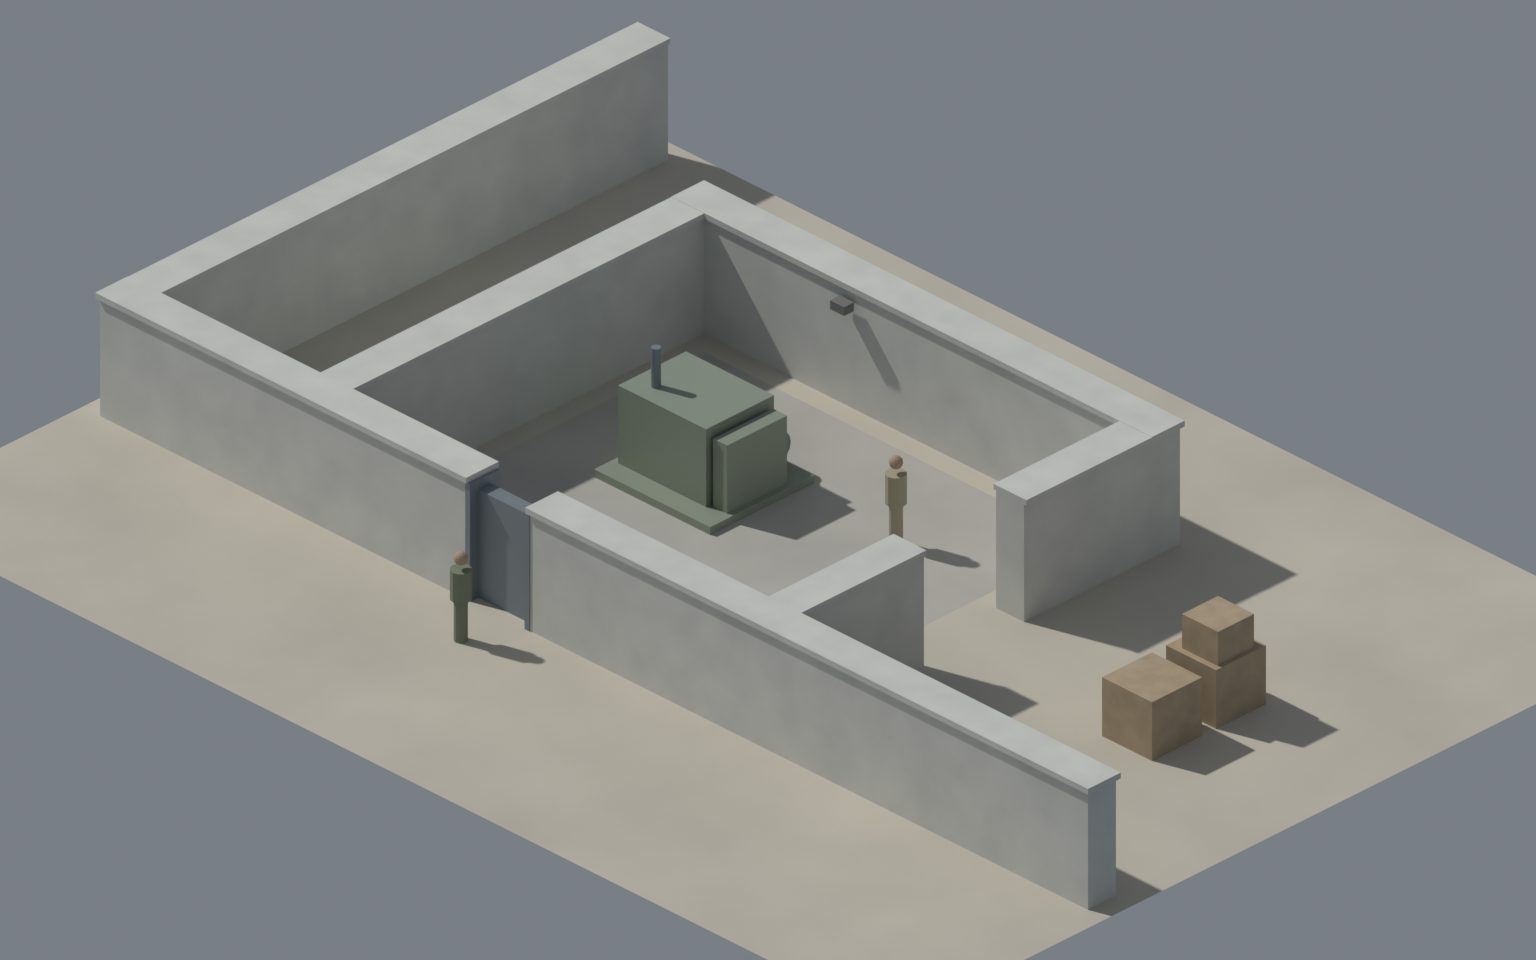
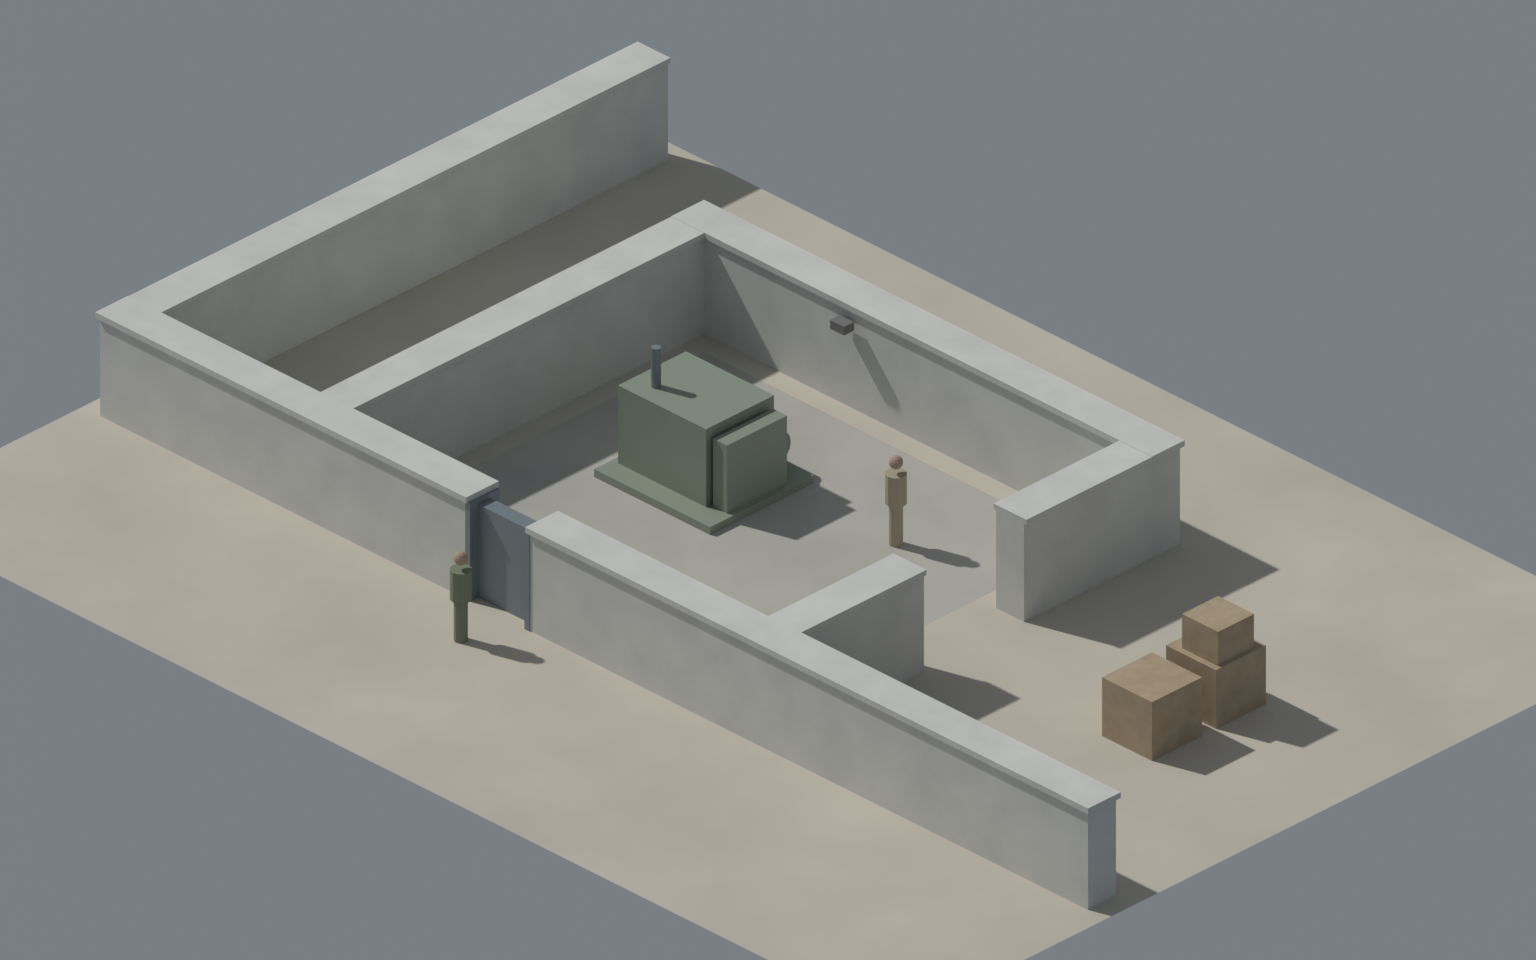
Session 2: look B, 2 m walls, full-frame plate, prompt batch 01
Renderer: wall height and figure options, builds past the frame edge, adds
buildings, launcher trucks and searchlight towers. 16:9 plate for Nano Banana.

diff --git a/tools/blender/render_iso.py b/tools/blender/render_iso.py
@@ -35,9 +35,10 @@ from mathutils import Vector
 TILE_M = 1.6  # one sim tile in metres. A 1.8 m figure is then about 44 px tall at 100% zoom.
 TILE_PX_W = 64  # tile diamond width on screen at 100% zoom
 CAM_TILT = math.radians(60)  # from vertical
-WALL_H = 2.4
+WALL_H = 2.0  # Gate A decision, Session 2: shows more floor behind walls than 2.4 m
 WALL_T = 0.7  # wall thickness; walls run through tile centres
-DOOR_H = 2.2
+DOOR_H = 1.9
+BUILDING_H = 3.2
 FIGURE_H = 1.8
 
 # Sun: from the screen's top left. Ground direction toward the sun, in Blender axes
@@ -205,8 +206,9 @@ class MapData:
         return self.deco[y * self.cols + x]
 
 
-def build(md, region, look):
-    x0, y0, x1, y1 = region
+def build(md, region, look, figures=True, margin=8):
+    # build past the camera's region so ground and walls run off the frame edges
+    x0, y0, x1, y1 = region[0] - margin, region[1] - margin, region[2] + margin, region[3] + margin
     L = LOOKS[look]
     T = TILE_M
     mats = {
@@ -341,6 +343,46 @@ def build(md, region, look):
                 add_box(crates, c.x + 0.1, c.y - 0.05, 1.55, 0.9, 0.9, 0.7)
     mesh_object("crates", crates, mats["wood"])
 
+    # buildings: one block per footprint with a parapet roof
+    bld = bmesh.new()
+    roof = bmesh.new()
+    for b in md.d["buildings"]:
+        if b["x1"] < x0 or b["x0"] >= x1 or b["y1"] < y0 or b["y0"] >= y1:
+            continue
+        a = sim_to_world(b["x0"] + 0.1, b["y0"] + 0.1)
+        c = sim_to_world(b["x1"] + 0.9, b["y1"] + 0.9)
+        cx, cy = (a.x + c.x) / 2, (a.y + c.y) / 2
+        sx, sy = abs(c.x - a.x), abs(c.y - a.y)
+        add_box(bld, cx, cy, BUILDING_H / 2, sx, sy, BUILDING_H)
+        add_box(roof, cx, cy, BUILDING_H + 0.01, sx - 0.5, sy - 0.5, 0.04)
+    mesh_object("buildings", bld, mats["concrete"])
+    mesh_object("roofs", roof, mats["steel"])
+
+    # launcher trucks: chassis, cab, missile on a cradle
+    trucks = bmesh.new()
+    missiles = bmesh.new()
+    for l in md.d["launchers"]:
+        if not (x0 <= l["x"] < x1 and y0 <= l["y"] < y1):
+            continue
+        a = sim_to_world(l["x"], l["y"] + 0.5)
+        length = l["w"] * T
+        cy = a.y
+        add_box(trucks, a.x + length / 2, cy, 0.75, length - 0.2, 1.3, 0.7)
+        add_box(trucks, a.x + length - 0.6, cy, 1.4, 0.9, 1.3, 0.8)
+        add_cylinder(missiles, a.x + length / 2 - 0.4, cy, 1.55, 0.28, length - 1.2, axis="X")
+    mesh_object("trucks", trucks, mats["machine"])
+    mesh_object("missiles", missiles, mats["concrete"])
+
+    # searchlight towers: pole and lamp head
+    towers = bmesh.new()
+    for t in md.d["towers"]:
+        if not (x0 <= t["x"] < x1 and y0 <= t["y"] < y1):
+            continue
+        c = sim_to_world(t["x"] + 0.5, t["y"] + 0.5)
+        add_box(towers, c.x, c.y, 2.5, 0.25, 0.25, 5.0)
+        add_box(towers, c.x, c.y, 5.1, 0.6, 0.6, 0.4)
+    mesh_object("towers", towers, mats["steel"])
+
     # a wall lamp inside the yard's north wall, above the generator (the night light source)
     lamp_pos = sim_to_world(16.0, 21.5 + WALL_T / (2 * T) + 0.05, WALL_H - 0.25)
     lamp = bmesh.new()
@@ -348,7 +390,7 @@ def build(md, region, look):
     mesh_object("lamp_fixture", lamp, mats["lamp"])
 
     # scale figures: Yoav outside the gate, the yard guard on his post
-    for name, (sx, sy), body in (("yoav", (16.6, 28.4), mats["fatigue"]), ("guard", (18.5, 23.5), mats["khaki"])):
+    for name, (sx, sy), body in () if not figures else (("yoav", (16.6, 28.4), mats["fatigue"]), ("guard", (18.5, 23.5), mats["khaki"])):
         if not (x0 <= sx < x1 and y0 <= sy < y1):
             continue
         p = sim_to_world(sx, sy)
@@ -453,6 +495,7 @@ def setup_render(look, samples):
 
 
 def main():
+    global WALL_H
     argv = sys.argv[sys.argv.index("--") + 1:] if "--" in sys.argv else []
     ap = argparse.ArgumentParser()
     ap.add_argument("--map", required=True)
@@ -463,19 +506,24 @@ def main():
     ap.add_argument("--top", type=int, default=96, help="px of headroom above the region for tall objects")
     ap.add_argument("--supersample", type=int, default=2)
     ap.add_argument("--samples", type=int, default=96)
+    ap.add_argument("--wall-h", type=float, default=WALL_H, help="wall height in metres")
+    ap.add_argument("--no-figures", action="store_true", help="leave out the scale figures (clean plate for painting)")
+    ap.add_argument("--margin", type=int, default=8, help="tiles built beyond the region so the frame is full")
+    ap.add_argument("--suffix", default="", help="added to the output file names")
     a = ap.parse_args(argv)
 
     reset_scene()
     md = MapData(a.map)
     region = tuple(a.region)
     L = LOOKS[a.look]
-    info = build(md, region, a.look)
+    WALL_H = a.wall_h
+    info = build(md, region, a.look, figures=not a.no_figures, margin=a.margin)
     setup_light(L)
     cam = setup_camera(region, a.top, a.supersample)
     setup_render(a.look, a.samples)
 
     os.makedirs(a.out, exist_ok=True)
-    stem = f"{a.name}_{a.look}"
+    stem = f"{a.name}_{a.look}{a.suffix}"
     scene = bpy.context.scene
     scene.render.filepath = os.path.abspath(os.path.join(a.out, f"{stem}_day.png"))
     bpy.ops.render.render(write_still=True)

diff --git a/assets/raw/prompts/batch-01.md b/assets/raw/prompts/batch-01.md
@@ -1,0 +1,90 @@
+# Prompt batch 01: style frame and Yoav concept
+
+Session 2, for Gate A. Look B (Moonlit steel), walls 2.0 m.
+Run each prompt in Nano Banana. Save each result in `assets/raw/gen/` under the file name given.
+If a result is weak, run the same prompt again and add `_2`, `_3` to the name. Send me all of them, good and bad.
+
+General settings:
+- Use the highest output resolution Nano Banana offers.
+- Aspect ratio 16:9 for SF prompts (same as the attached image). 3:2 for CH prompts.
+- One prompt per new chat, so earlier images do not leak in.
+
+---
+
+## SF-01 · Generator yard, painted (main style frame)
+
+Attach: `assets/raw/blockout/yard_B_plate_16x9.png`
+Save as: `assets/raw/gen/SF-01_yard_paint.png`
+
+```
+Repaint this 3D blockout render as a finished, hand-painted environment for an isometric stealth-tactics PC game from the late 1990s, painted at high detail.
+
+Keep the composition exactly the same: the camera angle, every wall, the steel gate, the generator, the crates, the building on the right, their positions, sizes and outlines. Do not move, add or remove any structure. Keep the light direction: sun from the upper left, shadows falling to the right.
+
+Surfaces:
+- Ground outside the walls: pale grey-khaki desert sand and gravel, small stones, tyre tracks, dry scrub patches, subtle wind ripples.
+- Ground inside the walled yard: compacted dirt over cracked concrete, oil stains under the generator.
+- Walls: weathered cast concrete in cool grey, formwork lines, chipped edges, dust and rain streaks, darker at the base.
+- Generator: olive-green industrial diesel generator with a radiator grille, exhaust pipe, fuel tank, control box, warning stickers without readable text.
+- Gate: grey painted steel double gate with rust at the edges.
+- Crates: worn wooden ammunition crates with rope handles, no markings.
+- Building: flat-roofed concrete block building, roof with a few vents and a small water tank.
+
+Palette: muted neutral grey-khaki and cool concrete, low saturation, neutral daylight, soft sky fill. No warm sunset light, no night, no fog.
+
+Style: detailed digital painting with visible but controlled brushwork, crisp readable shapes at small scale, clean edges between objects, like a painted backdrop for a classic isometric tactics game. No people, no vehicles, no text, no logos, no flags, no UI.
+```
+
+## SF-02 · Same, more painterly (variant for comparison)
+
+Attach: `assets/raw/blockout/yard_B_plate_16x9.png`
+Save as: `assets/raw/gen/SF-02_yard_paint_loose.png`
+
+```
+Turn this 3D blockout render into a painted environment for an isometric tactics game, in the style of a gouache matte painting: looser brushwork, painted texture on every surface, hand-made feel, but still crisp at the edges of walls and objects.
+
+Keep the composition exactly the same: the camera angle, every wall, the steel gate, the generator, the crates and the building, their positions, sizes and outlines. Do not move, add or remove anything. Sun from the upper left, shadows to the right.
+
+Surfaces: grey-khaki desert gravel outside, compacted dirt and cracked concrete inside the walled yard, weathered grey concrete walls with stains, an olive-green diesel generator, a grey steel gate, worn wooden crates, a flat-roofed concrete building.
+
+Palette: muted, cool, neutral daylight, low saturation. No people, no text, no logos, no flags, no UI, no night, no fog.
+```
+
+---
+
+## CH-01 · Yoav, character turnaround
+
+Attach: nothing.
+Save as: `assets/raw/gen/CH-01_yoav_turnaround.png`
+
+```
+Character turnaround sheet for an original video game character: front view, side view (facing left) and back view, standing side by side in a neutral relaxed A-pose, full body, same height and scale in all three views, orthographic, on a plain flat mid-grey background with no shadows on the ground. Neutral even studio daylight.
+
+The character: Yoav, call sign "Shadow", a lean special forces infiltrator in his early thirties, 180 cm, wiry build. Night desert raid gear, light and quiet: a dark knit watch cap, a short dark beard, camouflage face paint in dark olive, a slim low-profile plate carrier with a few pouches, a combat knife in a sheath on the left chest, a compact pistol in a thigh holster, fingerless gloves, a small assault pack, desert combat trousers with knee pads, worn tan boots.
+
+Colours: muted olive, khaki and dark brown, no bright colours, no national flags, no unit patches, no insignia, no readable text, no logos.
+
+Style: clean concept art, clear silhouette, readable shapes that would still read at 45 pixels tall, consistent proportions across the three views, semi-realistic, not cartoon, not anime.
+```
+
+## CH-02 · Yoav, silhouette variant
+
+Attach: nothing.
+Save as: `assets/raw/gen/CH-02_yoav_turnaround_hood.png`
+
+```
+Character turnaround sheet for an original video game character: front view, side view (facing left) and back view, side by side, full body, same height and scale in all three views, orthographic, neutral relaxed A-pose, plain flat mid-grey background, even neutral daylight.
+
+The character: Yoav, call sign "Shadow", a lean special forces infiltrator, 180 cm, wiry build. Distinct silhouette: a dark scarf worn as a hood and face wrap that leaves the eyes visible, a slim chest rig instead of body armour, a combat knife in a sheath across the lower back, a compact pistol in a thigh holster, a coiled rope with a small grappling hook on the pack, desert combat trousers, light tan boots.
+
+Colours: muted olive, dusty khaki, charcoal. No bright colours, no national flags, no unit patches, no insignia, no readable text, no logos.
+
+Style: clean concept art, strong readable silhouette that works at 45 pixels tall, consistent proportions in all three views, semi-realistic, not cartoon, not anime.
+```
+
+---
+
+## What I do with the results
+
+- SF: I check that the painted image still matches the blockout (walls, gate and generator in the same place, to within a few pixels), then grade it to night in the engine style and put it into the game at the right spot on the iso grid. You then paint over the strongest one for the final style frame.
+- CH: you pick one silhouette. It becomes the reference for the 3D model, and I render a 45 px version through the game camera to check that it still reads at game scale.

diff --git a/docs/visual-language.md b/docs/visual-language.md
@@ -1,6 +1,6 @@
 # Visual language (draft for Gate A)
 
-Status: draft, Session 2. The palette waits for Ran's pick of look A, B or C.
+Status: draft, Session 2. Look B (Moonlit steel) chosen by Ran. Walls 2.0 m.
 Compare sheet: `assets/raw/blockout/yard_looks_compare.png`.
 
 Each element has one job. No two elements do the same job.
@@ -12,8 +12,8 @@ Each element has one job. No two elements do the same job.
 ## 2. Scale (fixed)
 - One sim tile = 1.6 m.
 - A 1.8 m figure is about 44 px tall at 100% zoom (target 40 to 48).
-- Walls 2.4 m (about 59 px). Doors 2.2 m. Crates 1.2 m.
-- To check: does a 2.4 m wall hide too much floor behind it? See "Open questions".
+- Walls 2.0 m (about 49 px), just taller than a standing figure, so they read as cover. Doors 1.9 m. Crates 1.2 m. Buildings 3.2 m.
+- Decided in Session 2: 2.4 m hid too much floor and made cones seem to cross walls.
 
 ## 3. Light (fixed, one direction for everything)
 - Sun from the screen's top left: ground direction west with a little south, 48 degrees up.
@@ -27,7 +27,8 @@ Each element has one job. No two elements do the same job.
 
 ## 5. Structures and props (vary, say "what is this object")
 - 3D blockout from the map data, rendered through the camera, then painted over.
-- Muted earth tones. No saturated colour on structures: saturation belongs to the readability layer.
+- Look B palette: grey-khaki sand and gravel, cool grey concrete, olive machinery, worn wood. Low saturation, neutral daylight.
+- No saturated colour on structures: saturation belongs to the readability layer.
 
 ## 6. Night (one grade for the whole mission)
 - Art is painted in neutral daylight. The engine multiplies it by a night tint, then multiplies in a light layer.
@@ -50,5 +51,5 @@ Each element has one job. No two elements do the same job.
 - **Overlay**: the readability layer (rule 8).
 
 ## Open questions
-1. Which look: A, B or C.
-2. Wall height: 2.4 m hides the floor right behind a wall, and ground-level cones appear to cross walls. Lower walls (1.8 to 2 m) or keep them and rely on the hidden-unit outline.
+1. Does Nano Banana keep the blockout's geometry when painting over it? First test: `assets/raw/prompts/batch-01.md`.
+2. Yoav's silhouette: watch cap (CH-01) or hood and face wrap (CH-02).
